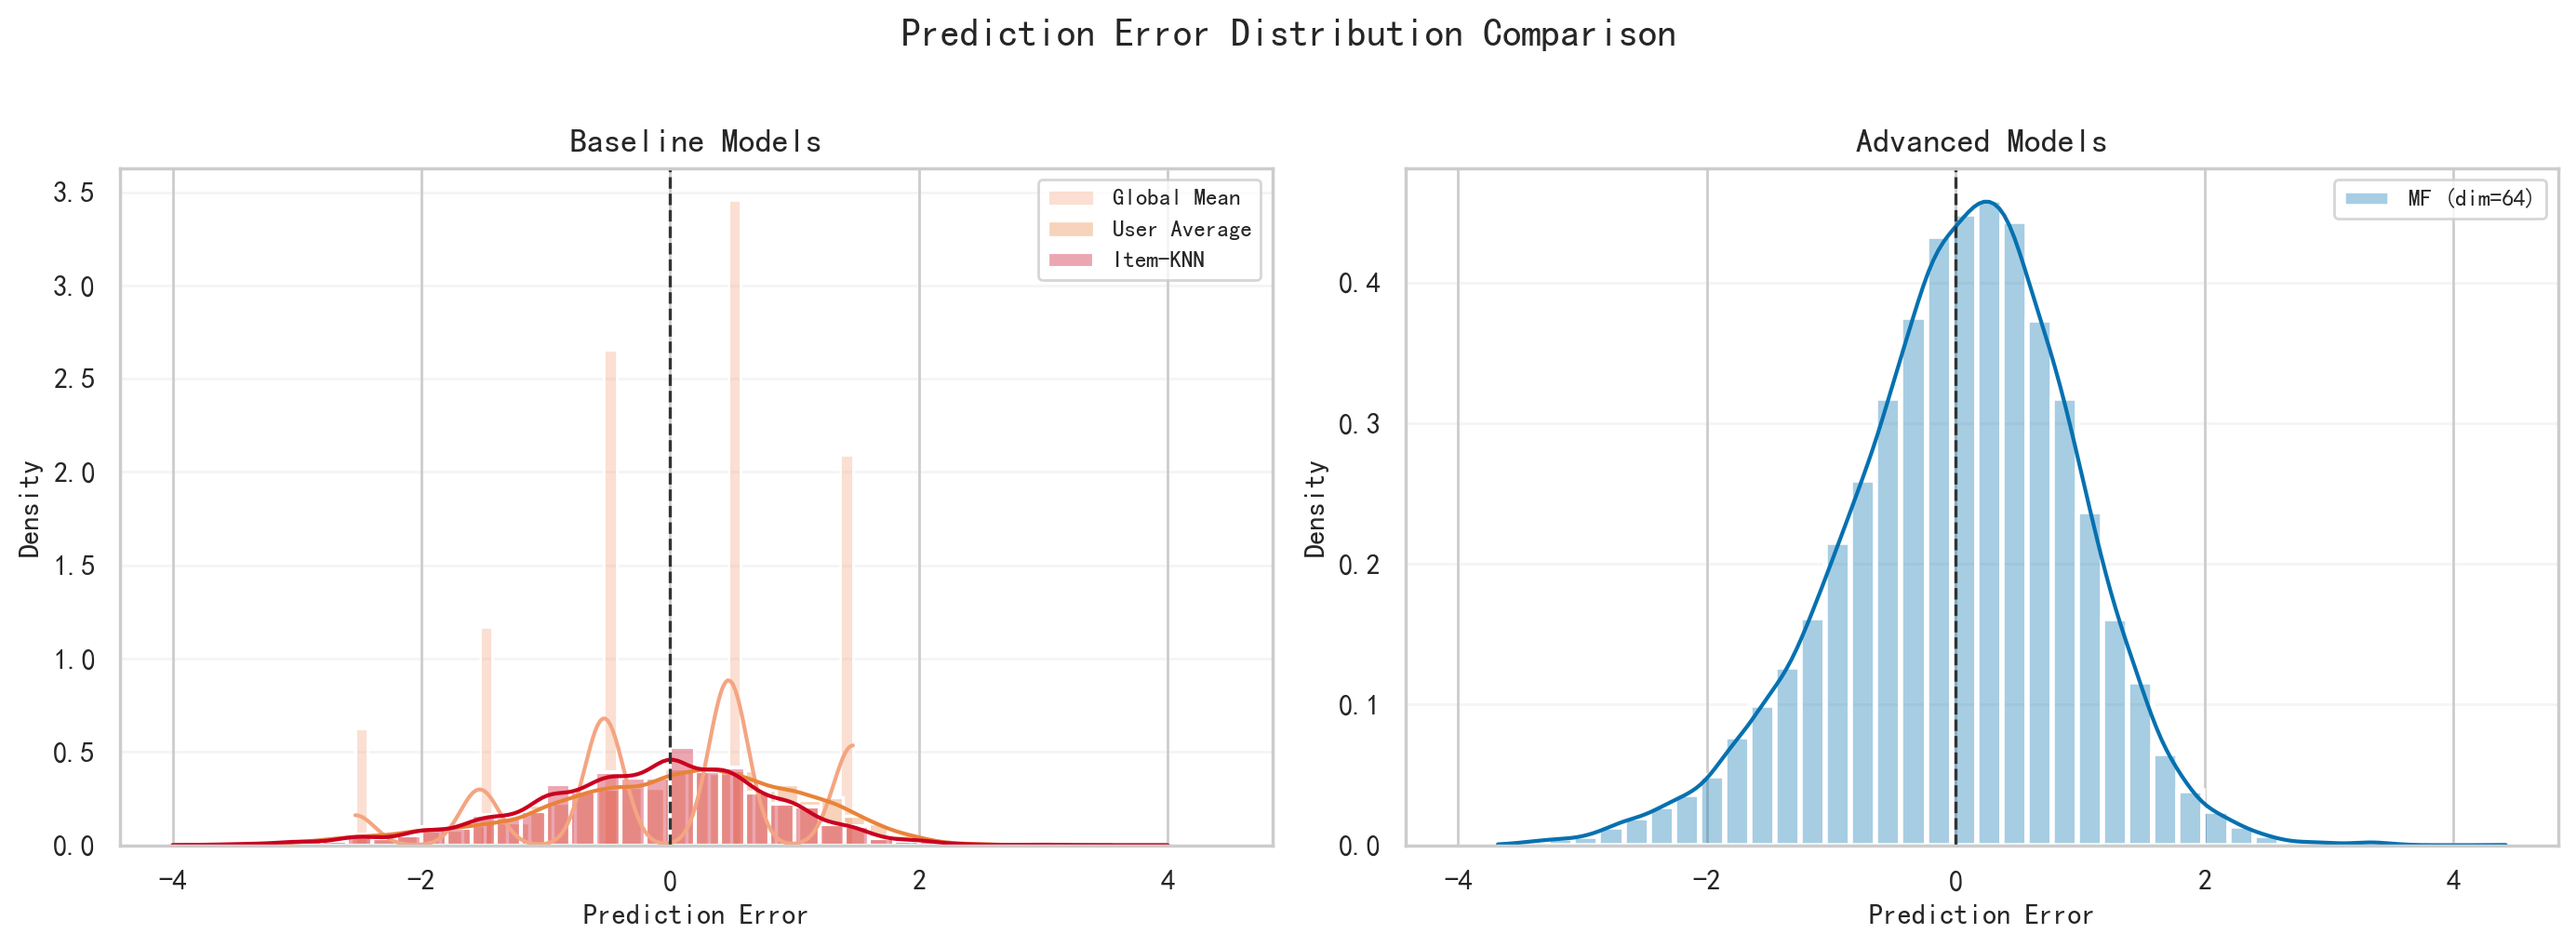
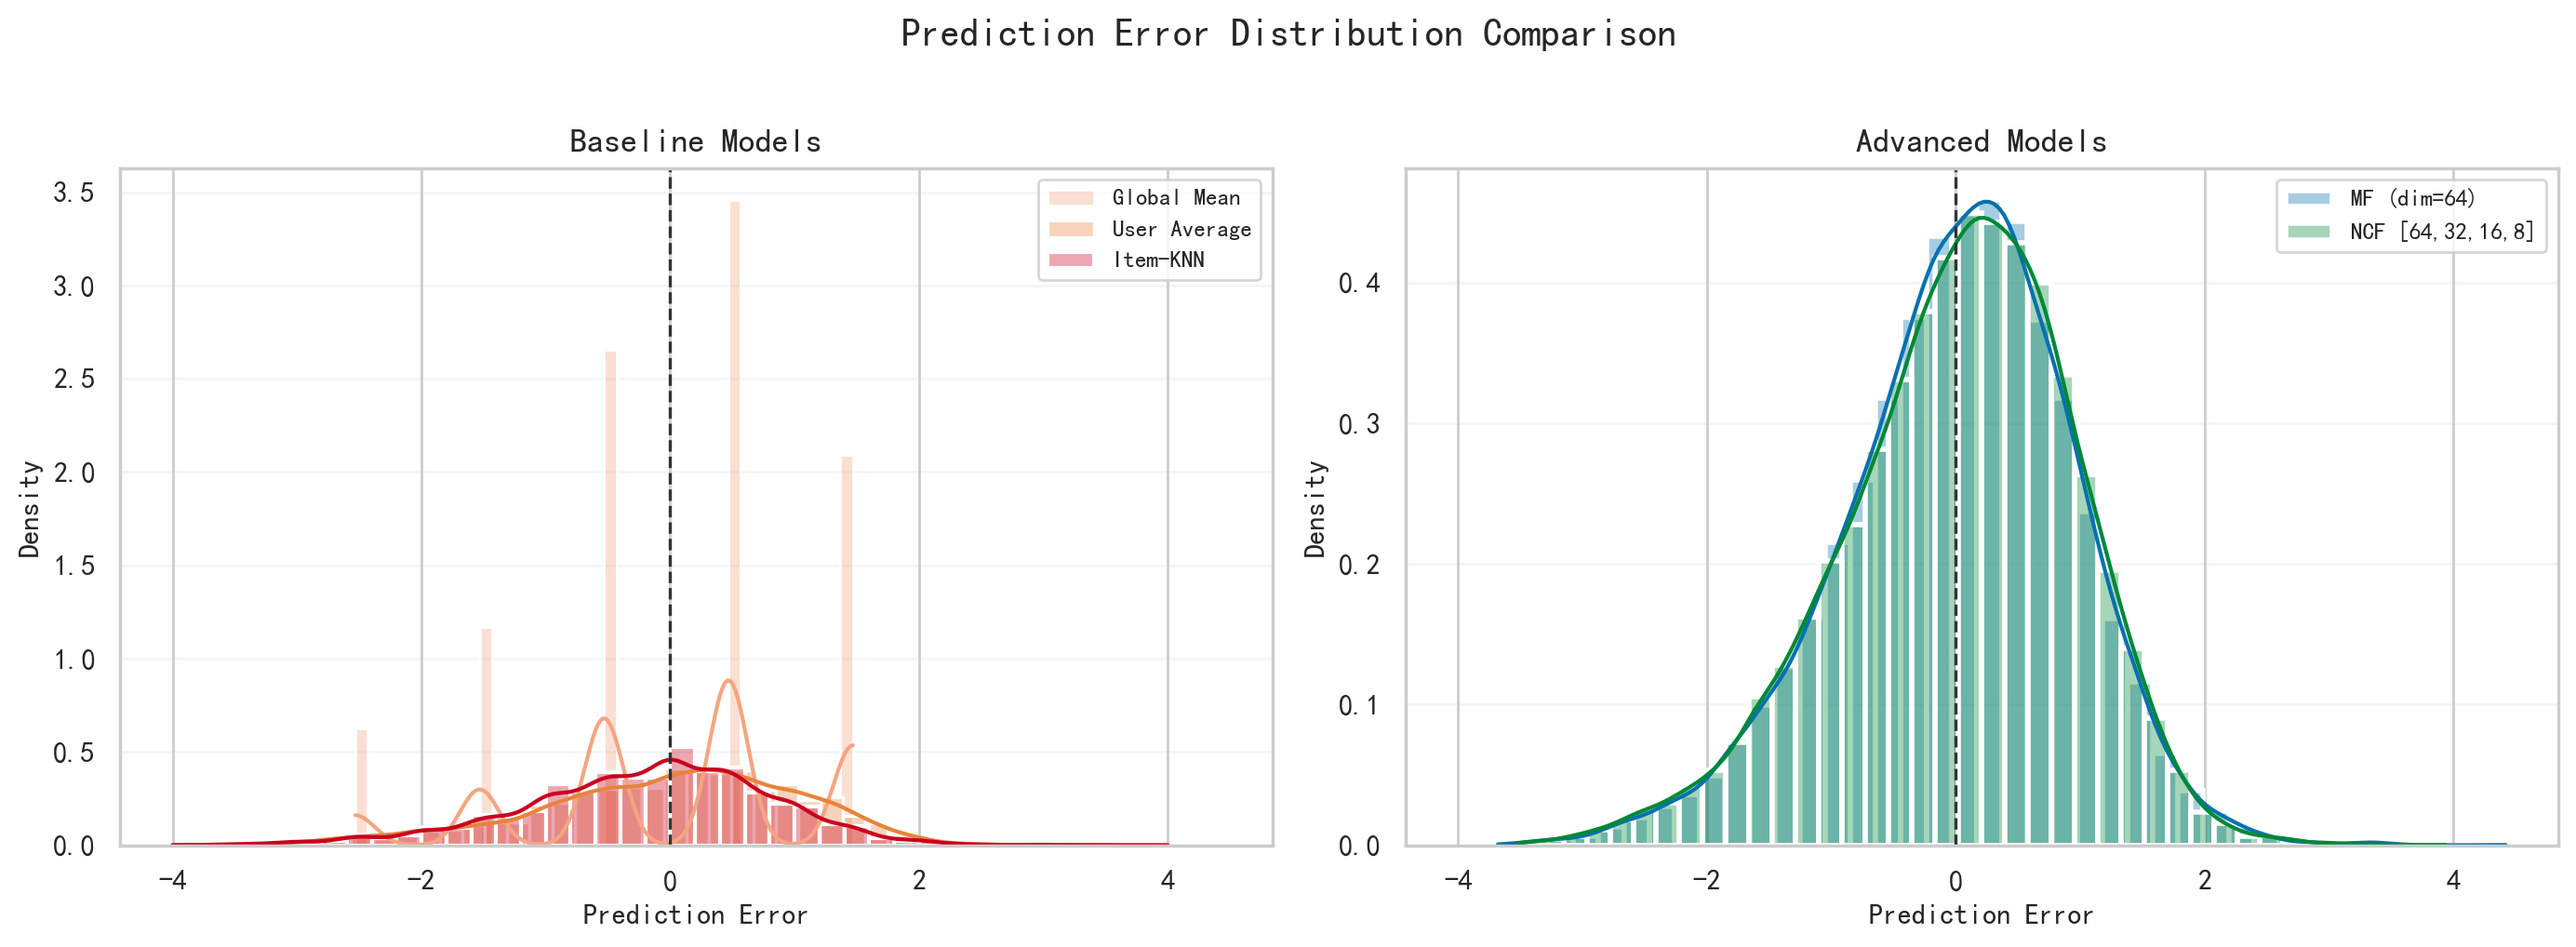
11

Changed region(s): [[0.5901, 0.2132, 0.9007, 0.9136], [0.8696, 0.1827, 0.9939, 0.2741]]

diff --git a/evaluate.py b/evaluate.py
@@ -174,7 +174,7 @@ def plot_err_dist(data_dir, test_path='data/processed/test.csv'):
     ]
     right_models = [
         {'file': 'pred_mf_dim64.csv',   'label': 'MF (dim=64)',     'color': '#0571B0', 'lw': 2.0},
-        {'file': 'pred_ncf_layer3.csv', 'label': 'NCF [128,64,32]', 'color': '#008837', 'lw': 2.0},
+        {'file': 'pred_ncf_width64_depth2.csv', 'label': 'NCF [64,32,16,8]', 'color': '#008837', 'lw': 2.0},
     ]
 
     fig, axes = plt.subplots(1, 2, figsize=(14, 5), sharex=True)
